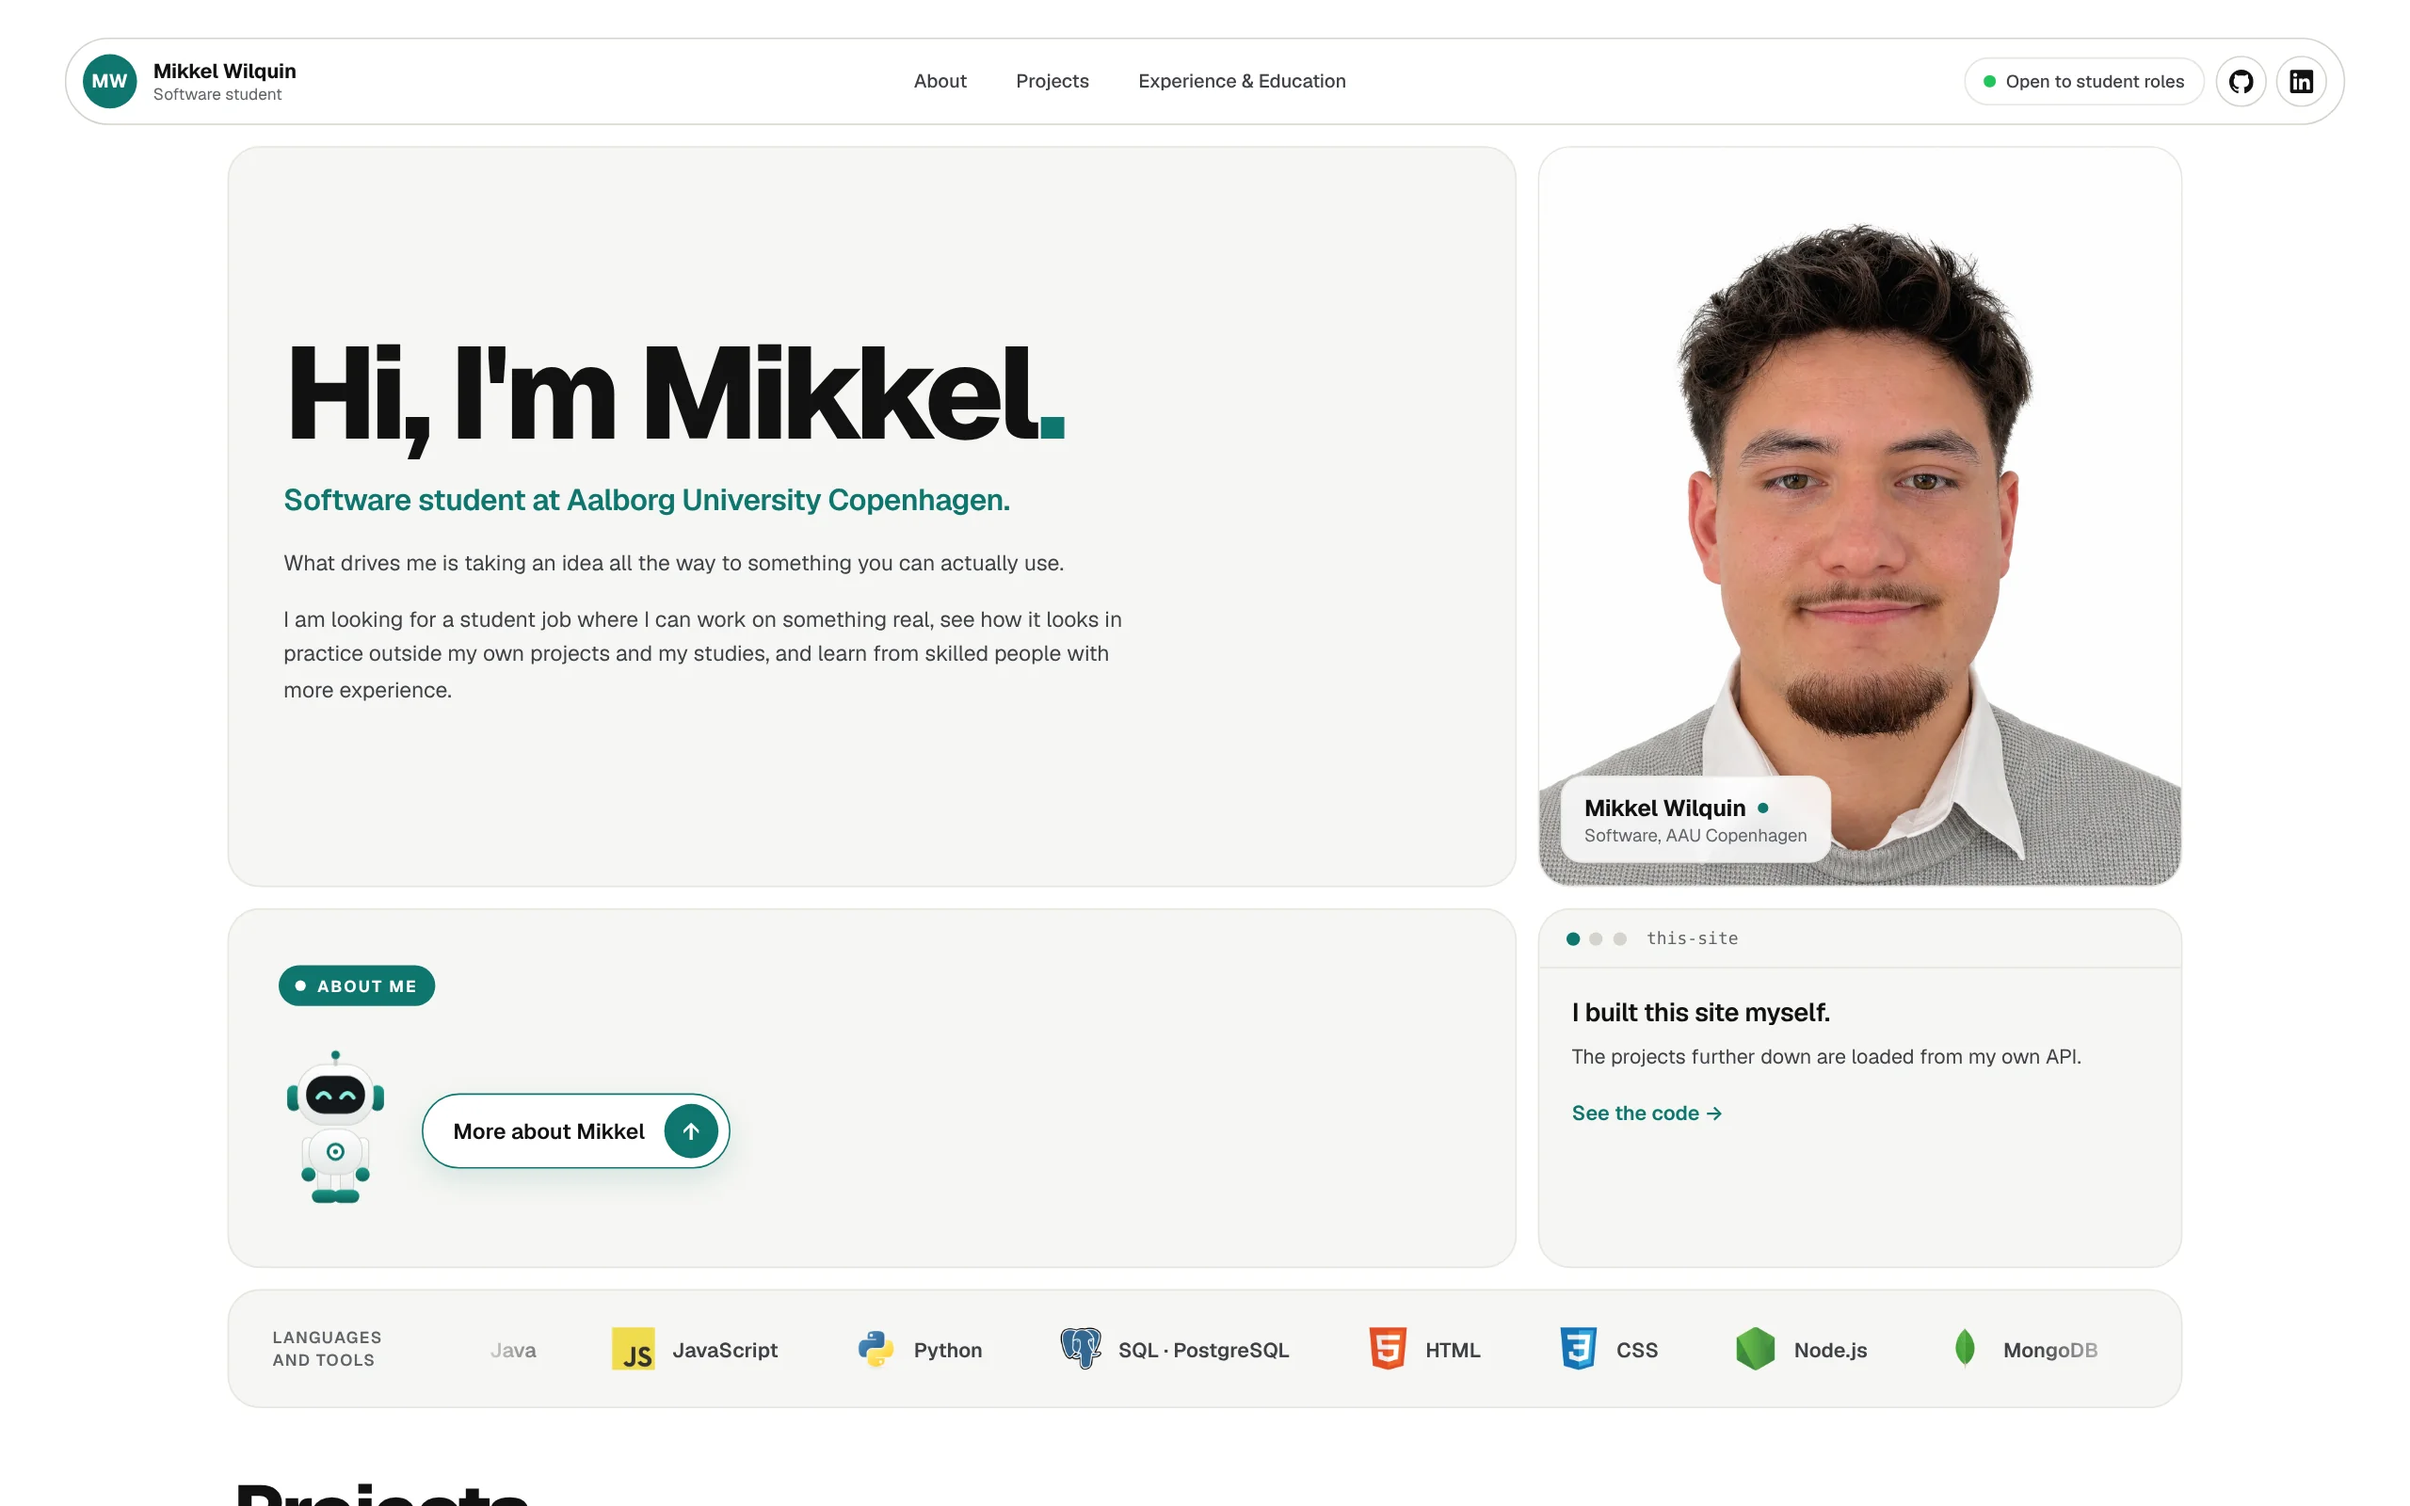
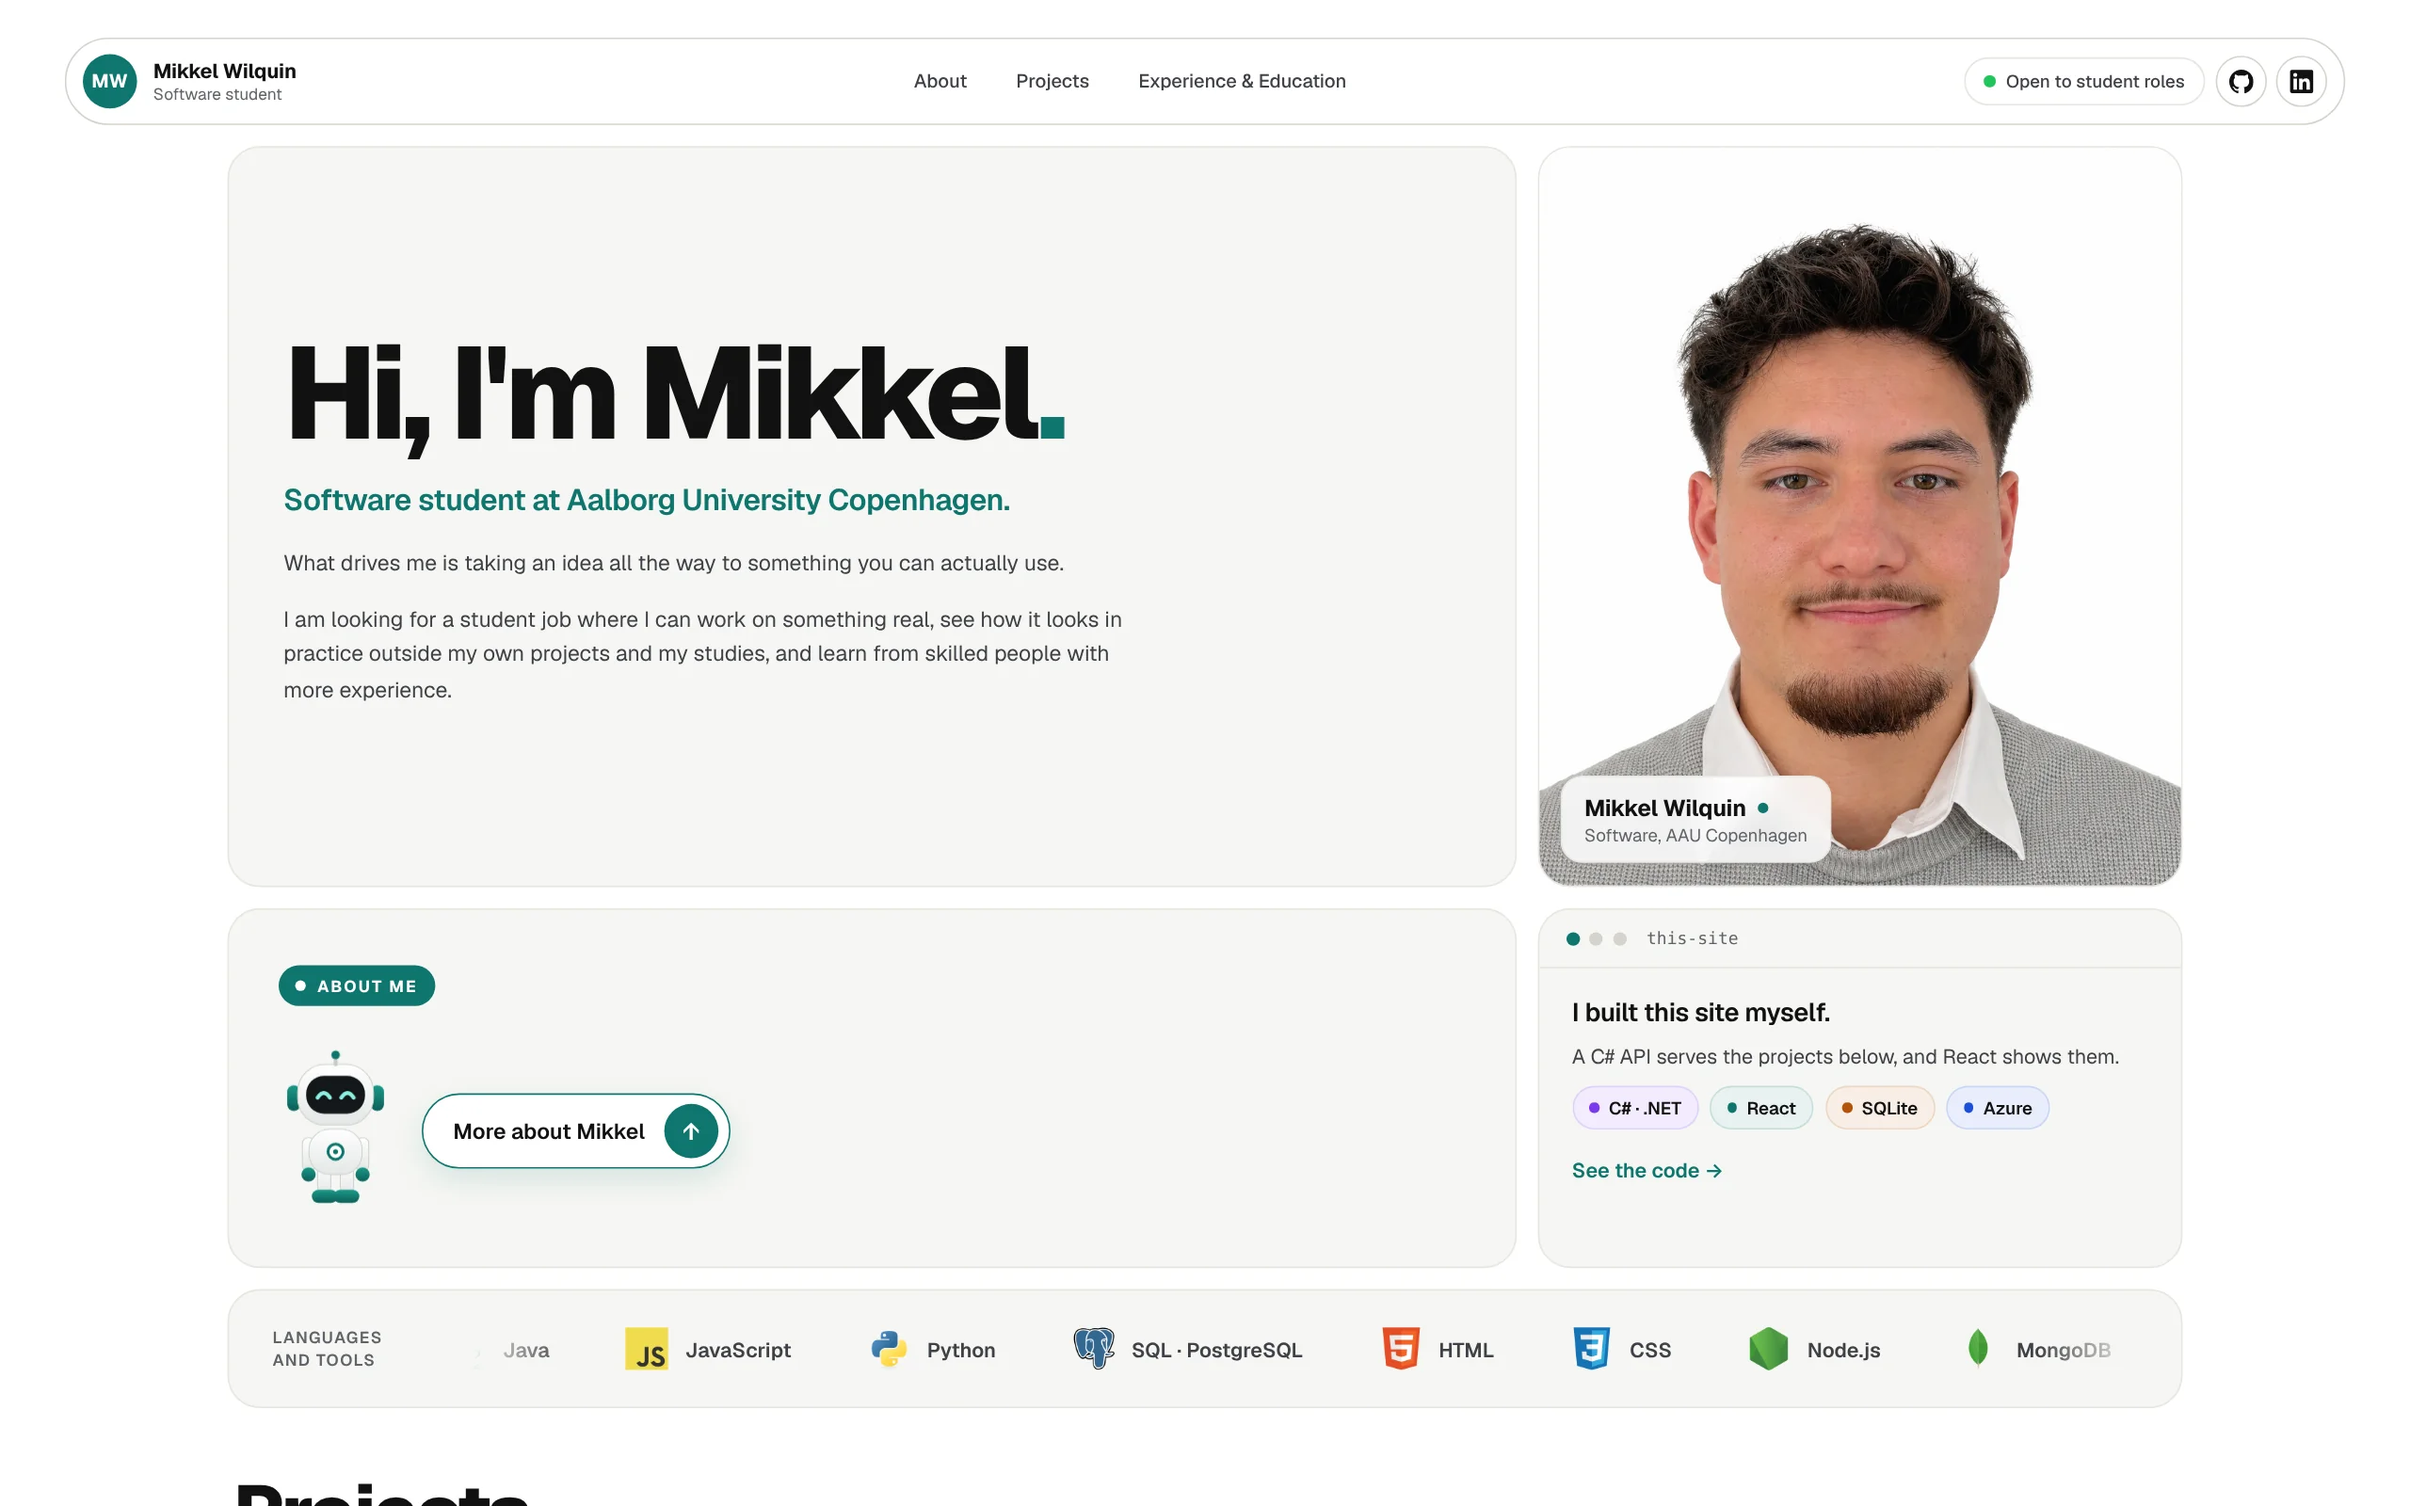
Stack shown as small chips until about me is opened

diff --git a/portfolio-web/src/components/BuiltWith.css b/portfolio-web/src/components/BuiltWith.css
@@ -43,6 +43,51 @@
   color: var(--text2);
 }
 
+.built-chips-wrap {
+  display: grid;
+  grid-template-rows: 1fr;
+  transition: grid-template-rows 0.7s cubic-bezier(0.2, 0.8, 0.2, 1), opacity 0.3s;
+}
+
+.top:has(.about-me.is-open) .built-chips-wrap {
+  grid-template-rows: 0fr;
+  opacity: 0;
+}
+
+.built-chips {
+  display: flex;
+  flex-wrap: wrap;
+  align-content: flex-start;
+  gap: 0 8px;
+  min-height: 0;
+  margin: 0 24px;
+  padding: 0;
+  overflow: hidden;
+  list-style: none;
+}
+
+.built-chips li {
+  display: inline-flex;
+  align-items: center;
+  gap: 7px;
+  height: 32px;
+  margin-top: 10px;
+  padding: 0 12px;
+  border: 1px solid color-mix(in srgb, var(--c) 24%, #FFFFFF);
+  border-radius: 999px;
+  background: color-mix(in srgb, var(--c) 10%, #FFFFFF);
+  font-size: 13px;
+  font-weight: 600;
+}
+
+.built-chips li::before {
+  content: "";
+  width: 7px;
+  height: 7px;
+  border-radius: 50%;
+  background: var(--c);
+}
+
 .built-reveal {
   display: grid;
   grid-template-rows: 0fr;
@@ -69,7 +114,8 @@
 }
 
 @media (prefers-reduced-motion: reduce) {
-  .built-reveal {
+  .built-reveal,
+  .built-chips-wrap {
     transition: none;
   }
 }

diff --git a/portfolio-web/src/components/BuiltWith.jsx b/portfolio-web/src/components/BuiltWith.jsx
@@ -16,6 +16,13 @@ function BuiltWith(){
             </div>
             <p className="built-title">I built this site myself.</p>
             <p className="built-text">A C# API serves the projects below, and React shows them.</p>
+            <div className="built-chips-wrap">
+                <ul className="built-chips">
+                    {STACK.map((item) => (
+                        <li key={item.name} style={{ '--c': item.color }}>{item.name}</li>
+                    ))}
+                </ul>
+            </div>
             <div className="built-reveal">
                 <ul className="built-stack">
                     {STACK.map((item) => (
